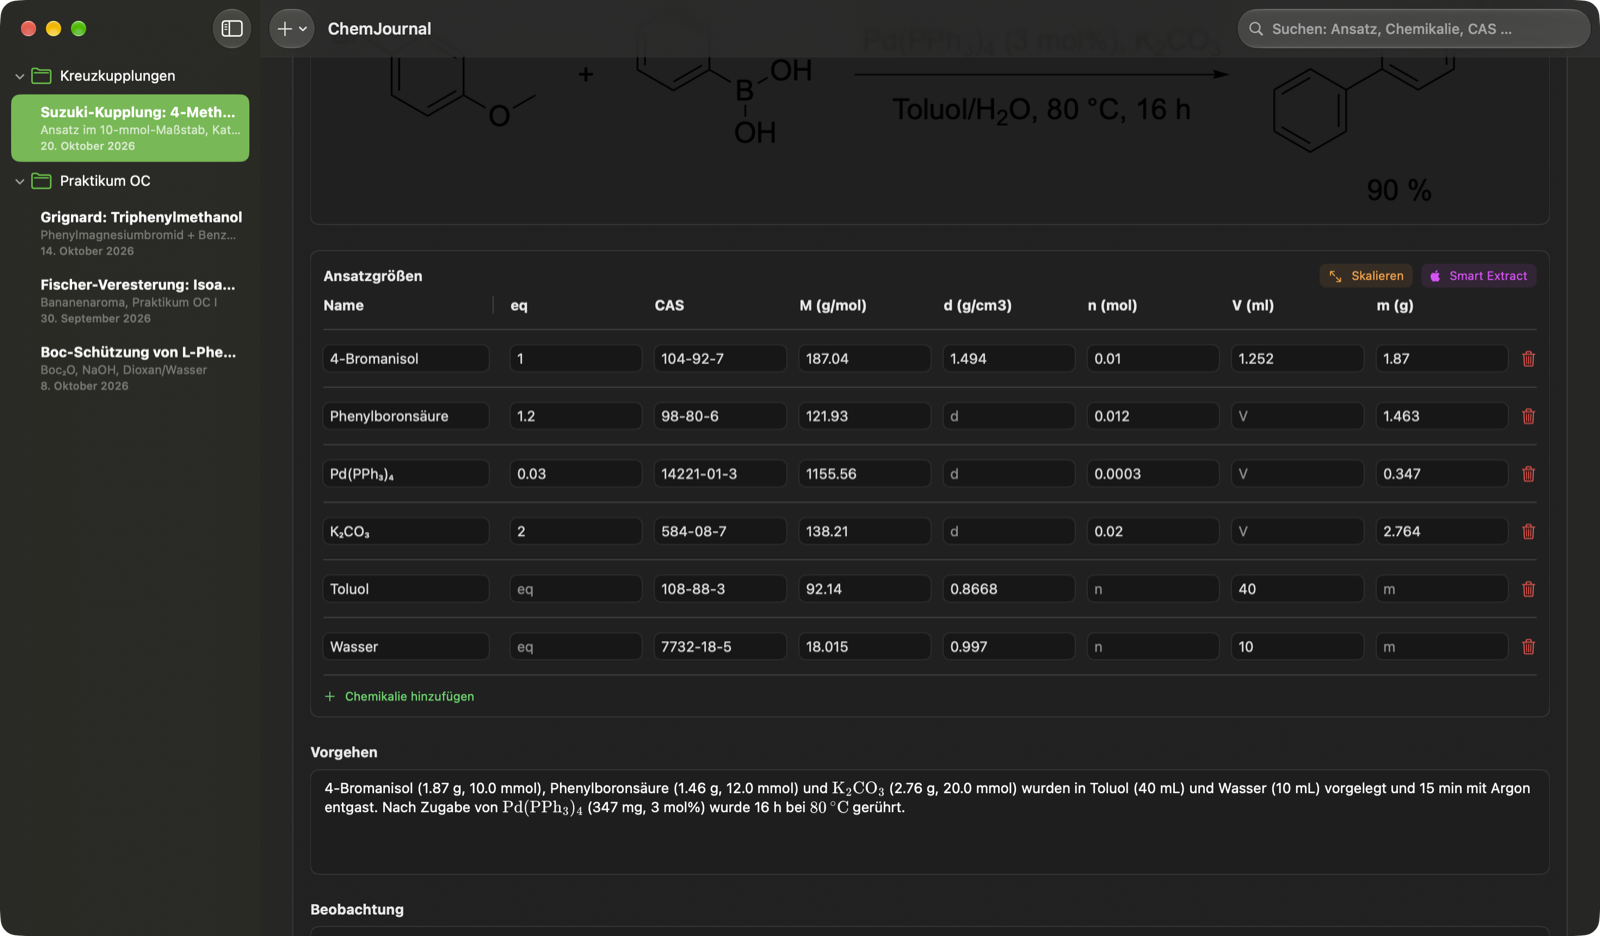
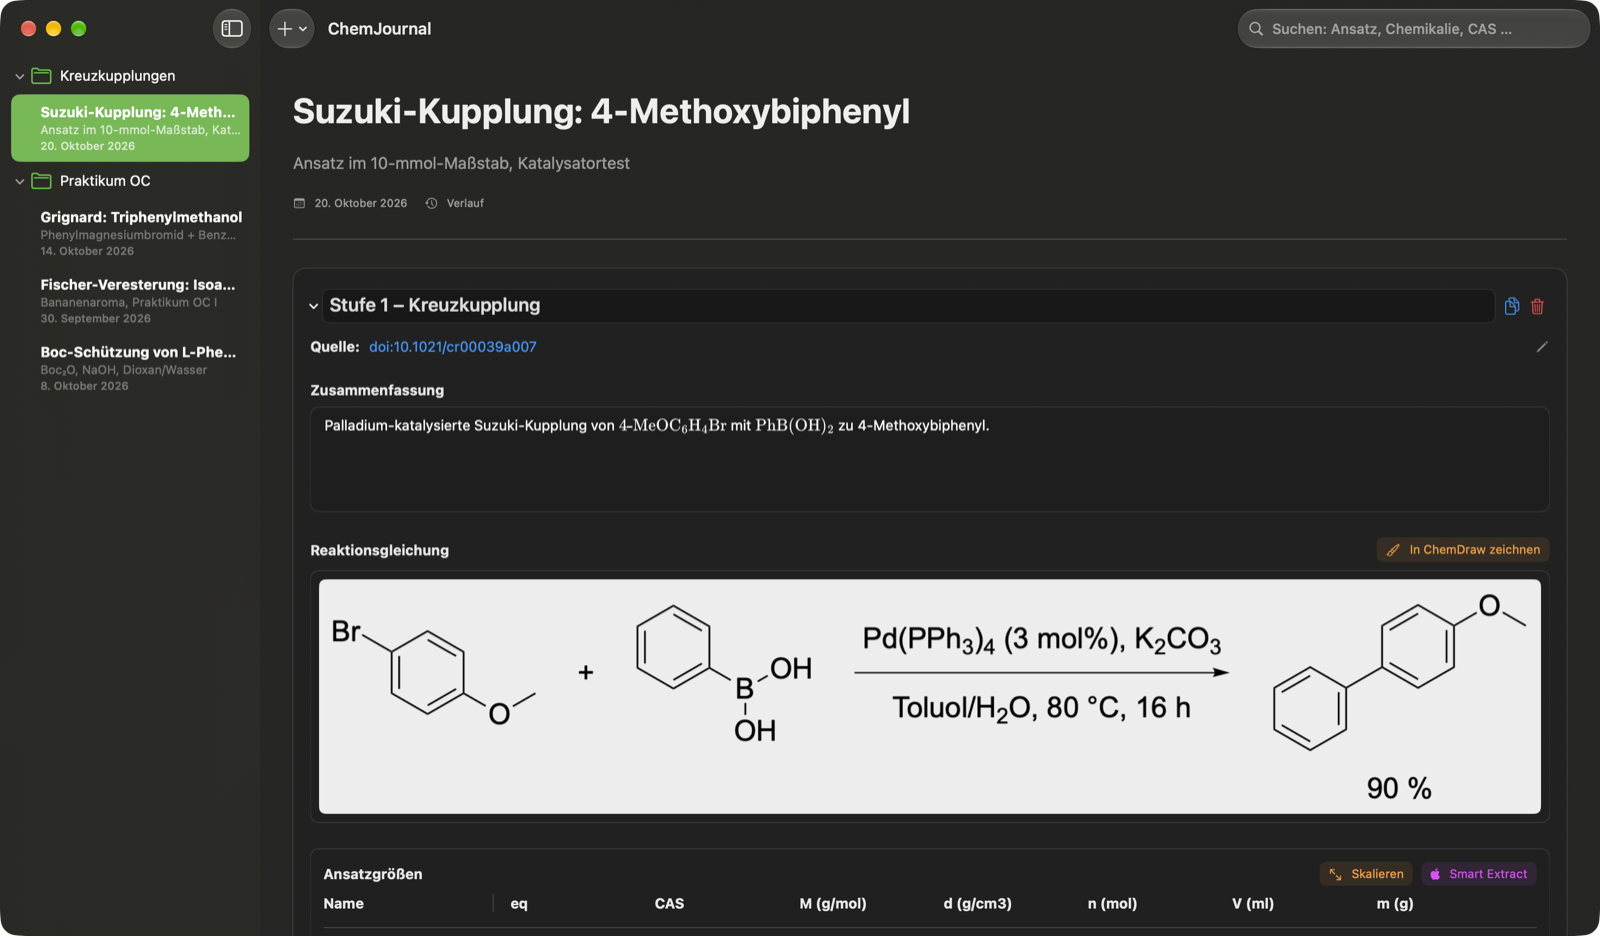
Dunkelmodus: Reaktionsgleichungen auf heller Karte; neuer Screenshot

diff --git a/macos/ChemJournal/Views/ReactionImageView.swift b/macos/ChemJournal/Views/ReactionImageView.swift
@@ -13,6 +13,7 @@ struct ReactionImageView: View {
     @State private var localMonitor: Any? = nil
     @State private var fileWatcherTimer: Timer?
     @State private var isImporting = false
+    @Environment(\.colorScheme) private var colorScheme
 
     var body: some View {
         VStack(alignment: .leading) {
@@ -47,7 +48,12 @@ struct ReactionImageView: View {
                     .fill(isHovering ? Color.blue.opacity(0.1) : Color(NSColor.textBackgroundColor).opacity(0.5))
                     .overlay(RoundedRectangle(cornerRadius: 8).stroke(isHovering ? Color.blue : (isChemDrawActive ? Color.orange : Color.gray.opacity(0.2)), style: StrokeStyle(lineWidth: isHovering || isChemDrawActive ? 2 : 1, dash: isHovering ? [8] : [])))
                 if let data = imageData, let image = NSImage(data: data) {
-                    Image(nsImage: image).resizable().scaledToFit().frame(maxHeight: 250).padding()
+                    // ChemDraw-Bilder sind schwarz auf transparent – im Dunkelmodus auf heller Karte zeigen
+                    Image(nsImage: image).resizable().scaledToFit().frame(maxHeight: 250)
+                        .padding(8)
+                        .background(colorScheme == .dark ? Color.white.opacity(0.92) : Color.clear,
+                                    in: RoundedRectangle(cornerRadius: 6))
+                        .padding(8)
                         .contextMenu {
                             Button(role: .destructive, action: removeImage) { Label("Bild entfernen", systemImage: "xmark") }
                         }
